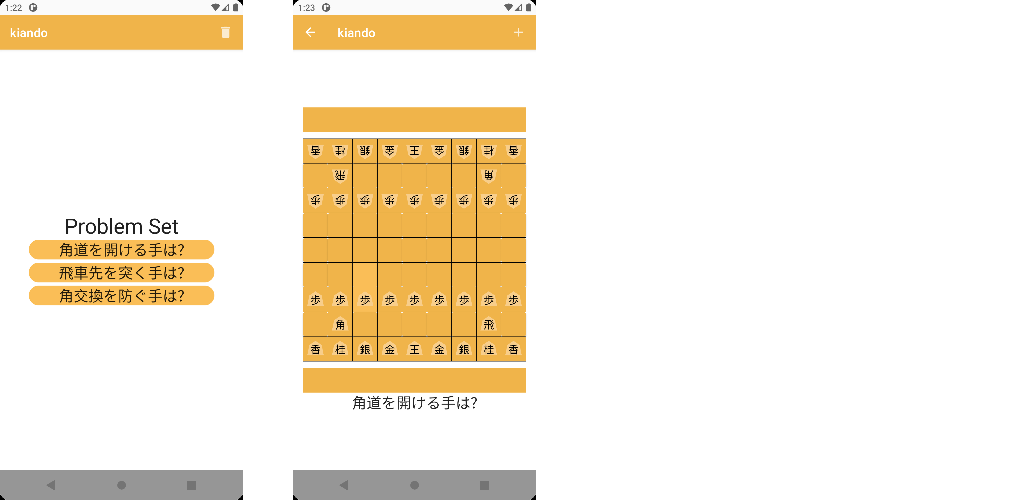
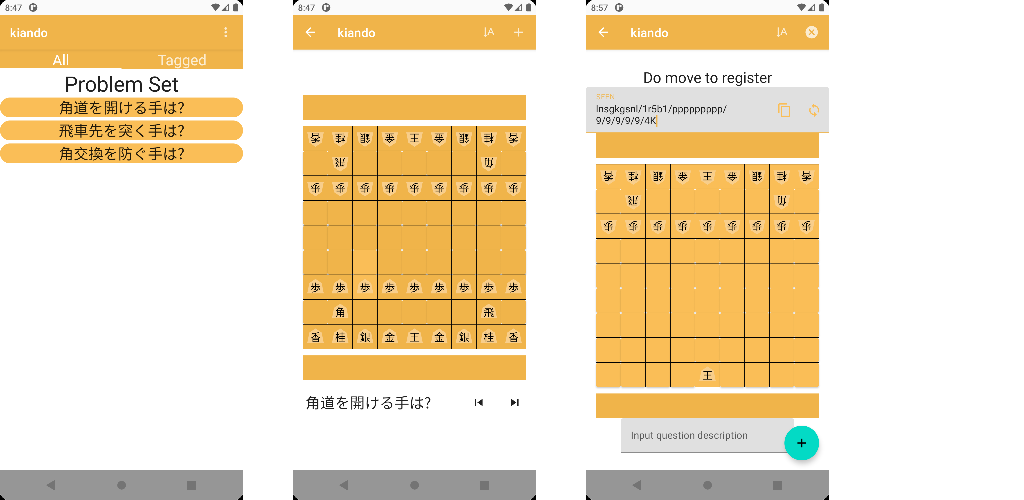
[doc] changed feature_graphic,README for v1.0.3

diff --git a/README.md b/README.md
@@ -10,6 +10,8 @@ You can download it in [GooglePlay](https://play.google.com/store/apps/details?i
 
 - register questions by user
 - edit board ignoring turn
+- encode/decode SFEN
+- favorite tagging
 
 ## library
 
